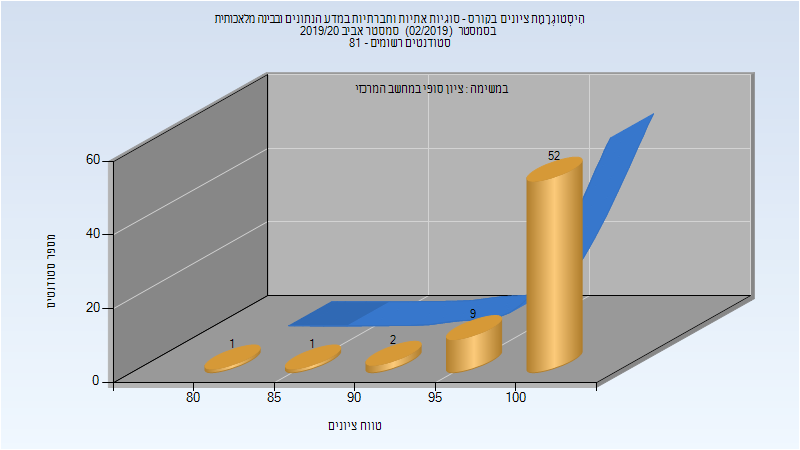
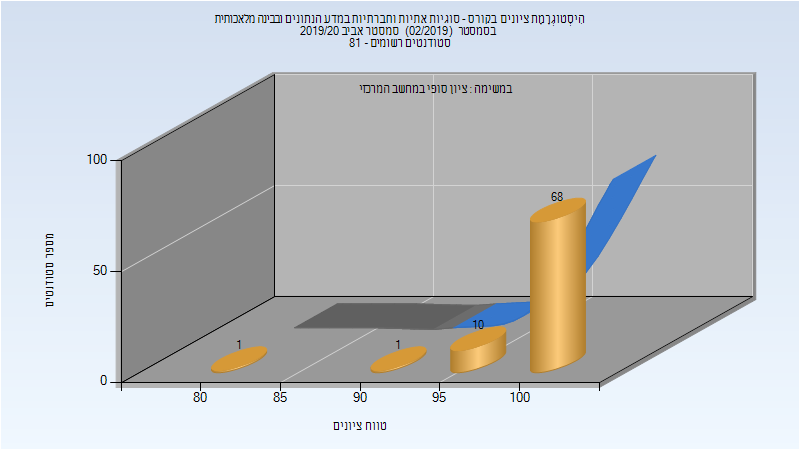
Deploy michael-maltsev/technion-histograms to github.com/michael-maltsev/technion-histograms.git:gh-pages

diff --git a/324253/index.html b/324253/index.html
@@ -78,6 +78,32 @@
 </tr>
 </tbody>
 </table>
+<h3>סופי מועד ב'</h3>
+<p><img src="201902/Final_B.png" alt="201902 Final_B" /></p>
+<table>
+<thead>
+<tr>
+<th>סטודנטים</th>
+<th>עברו/נכשלו</th>
+<th>אחוז עוברים</th>
+<th>ציון מינימלי</th>
+<th>ציון מקסימלי</th>
+<th>ממוצע</th>
+<th>חציון</th>
+</tr>
+</thead>
+<tbody>
+<tr>
+<td>17</td>
+<td>17/0</td>
+<td>100</td>
+<td>95</td>
+<td>100</td>
+<td>99.706</td>
+<td>100</td>
+</tr>
+</tbody>
+</table>
 <h3>סופי</h3>
 <p><img src="201902/Finals.png" alt="201902 Finals" /></p>
 <table>
@@ -94,12 +120,12 @@
 </thead>
 <tbody>
 <tr>
-<td>65</td>
-<td>65/0</td>
+<td>80</td>
+<td>80/0</td>
 <td>100</td>
 <td>80</td>
 <td>100</td>
-<td>98.462</td>
+<td>99</td>
 <td>100</td>
 </tr>
 </tbody>

diff --git a/114071/index.html b/114071/index.html
@@ -2408,6 +2408,32 @@
 </tr>
 </tbody>
 </table>
+<h3>סופי מועד ב'</h3>
+<p><img src="201902/Final_B.png" alt="201902 Final_B" /></p>
+<table>
+<thead>
+<tr>
+<th>סטודנטים</th>
+<th>עברו/נכשלו</th>
+<th>אחוז עוברים</th>
+<th>ציון מינימלי</th>
+<th>ציון מקסימלי</th>
+<th>ממוצע</th>
+<th>חציון</th>
+</tr>
+</thead>
+<tbody>
+<tr>
+<td>191</td>
+<td>166/25</td>
+<td>87</td>
+<td>17</td>
+<td>117</td>
+<td>74.063</td>
+<td>73</td>
+</tr>
+</tbody>
+</table>
 <h3>סופי</h3>
 <p><img src="201902/Finals.png" alt="201902 Finals" /></p>
 <table>

diff --git a/234124/index.html b/234124/index.html
@@ -193,7 +193,7 @@
 <td>79</td>
 <td>4</td>
 <td>100</td>
-<td>70.856</td>
+<td>70.897</td>
 <td>77</td>
 </tr>
 </tbody>

diff --git a/324253/README.md b/324253/README.md
@@ -18,11 +18,19 @@
 | ---- | ---- | ---- | ---- | ---- | ---- | ---- |
 | 65 | 65/0 | 100 | 80 | 100 | 98.462 | 100 |
 
+### סופי מועד ב'
+
+![201902 Final_B](201902/Final_B.png)
+
+| סטודנטים | עברו/נכשלו | אחוז עוברים | ציון מינימלי | ציון מקסימלי | ממוצע | חציון |
+| ---- | ---- | ---- | ---- | ---- | ---- | ---- |
+| 17 | 17/0 | 100 | 95 | 100 | 99.706 | 100 |
+
 ### סופי
 
 ![201902 Finals](201902/Finals.png)
 
 | סטודנטים | עברו/נכשלו | אחוז עוברים | ציון מינימלי | ציון מקסימלי | ממוצע | חציון |
 | ---- | ---- | ---- | ---- | ---- | ---- | ---- |
-| 65 | 65/0 | 100 | 80 | 100 | 98.462 | 100 |
+| 80 | 80/0 | 100 | 80 | 100 | 99 | 100 |
 

diff --git a/114071/README.md b/114071/README.md
@@ -771,6 +771,14 @@
 | ---- | ---- | ---- | ---- | ---- | ---- | ---- |
 | 300 | 246/54 | 82 | 2 | 100 | 67.413 | 68 |
 
+### סופי מועד ב'
+
+![201902 Final_B](201902/Final_B.png)
+
+| סטודנטים | עברו/נכשלו | אחוז עוברים | ציון מינימלי | ציון מקסימלי | ממוצע | חציון |
+| ---- | ---- | ---- | ---- | ---- | ---- | ---- |
+| 191 | 166/25 | 87 | 17 | 117 | 74.063 | 73 |
+
 ### סופי
 
 ![201902 Finals](201902/Finals.png)

diff --git a/234124/README.md b/234124/README.md
@@ -60,5 +60,5 @@
 
 | סטודנטים | עברו/נכשלו | אחוז עוברים | ציון מינימלי | ציון מקסימלי | ממוצע | חציון |
 | ---- | ---- | ---- | ---- | ---- | ---- | ---- |
-| 320 | 253/67 | 79 | 4 | 100 | 70.856 | 77 |
+| 320 | 253/67 | 79 | 4 | 100 | 70.897 | 77 |
 
